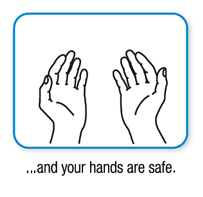
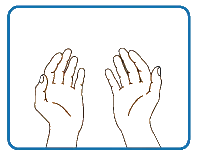
added text instructions for each image slide
also made images transparent will remove the peach colour.

Changed region(s): [[0.0303, 0.0252, 0.9697, 0.956]]

diff --git a/screens/tutorialPage.js b/screens/tutorialPage.js
@@ -19,11 +19,31 @@ export default class tutPage extends Component {
                 require('./image7.png'),
                 require('./image8.png'),
                 require('./image12.png')
+            ],
+
+            slideText: [
+                "Rub hands palm to palm.",
             ]
             
         };
 
     }
+    handlePress = (index) => {
+        if(index ===0)
+            this.setState({slideText: "Rub hands palm to palm." });
+        else if(index === 1)
+            this.setState({slideText: "Right palm over left dorsum with interlaced fingers and vica versa." });
+        else if(index === 2)
+            this.setState({slideText: "Palm to palm with fingers interlaced." });
+        else if(index === 3)
+            this.setState({slideText: "Backs of fingers to opposing palms with fingers interlocked." });
+        else if(index === 4)
+            this.setState({slideText: "Rotational rubbing, backwards and forwards with clasped fingers of right hand in left palm and vica versa" });
+        else if(index === 5)
+            this.setState({slideText: "You are ready to take a photo!" });
+
+    }
+
 
     render() {
         return(
@@ -31,11 +51,15 @@ export default class tutPage extends Component {
             <LinearGradient
                 colors={['#74ebd5', '#acb6e5']}
                 style= {gStyles.homeScreen}>
+                 
+                <Text style = {gStyles.SlideText}>How to Apply Glow Germ</Text>
                 <View style = {styles.containers}>
                     <SliderBox 
                         images={this.state.images}
-                        sliderBoxHeight={400}
+                        sliderBoxHeight={300}
+                        currentImageEmitter ={index => this.handlePress(index)}
                         autoplay
+                        disableOnPress = {true}
                         dotStyle={{width:0,
                         height:0
                         }}
@@ -51,12 +75,14 @@ export default class tutPage extends Component {
                         }}
                         ImageComponentStyle={{
                             borderRadius: 15, 
-                            width: '90%', 
+                            width: '98%', 
                             marginTop: 15
                         }}
 
                     />
+                    <Text>{this.state.slideText}</Text>
                 </View>
+
             </LinearGradient>
         )
     }

diff --git a/styles/globalStyles.js b/styles/globalStyles.js
@@ -6,7 +6,7 @@ export const gStyles = StyleSheet.create({
         fontSize: 48,
         fontWeight: 'bold',
         color: '#333',
-        padding: 10
+        padding: 10,
     },
     PresentText: {
         fontSize: 30,
@@ -14,6 +14,14 @@ export const gStyles = StyleSheet.create({
         fontWeight:'bold',
         padding: 5
 
+    },
+    SlideText:{
+        fontSize:28,
+        fontWeight: 'bold',
+        color: '#333',
+        alignItems:'center',
+        justifyContent:'center',
+        paddingLeft:25
     },
     HomeContainer : {
         borderWidth: 0,
